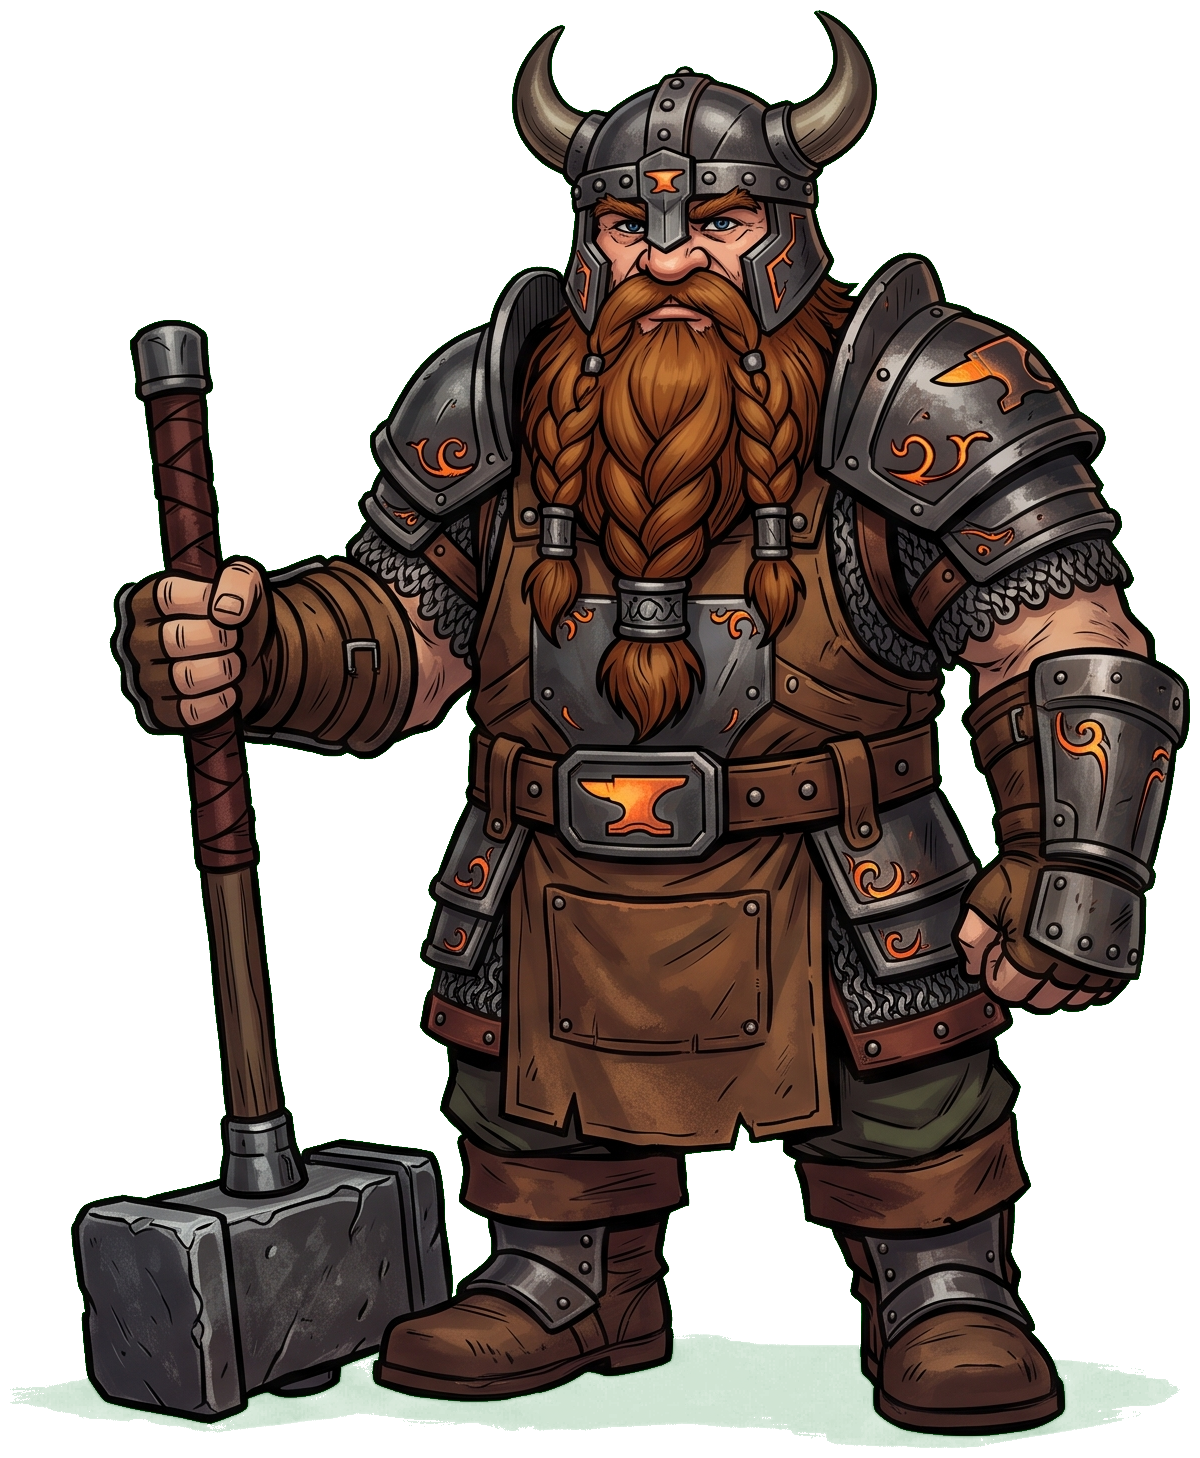
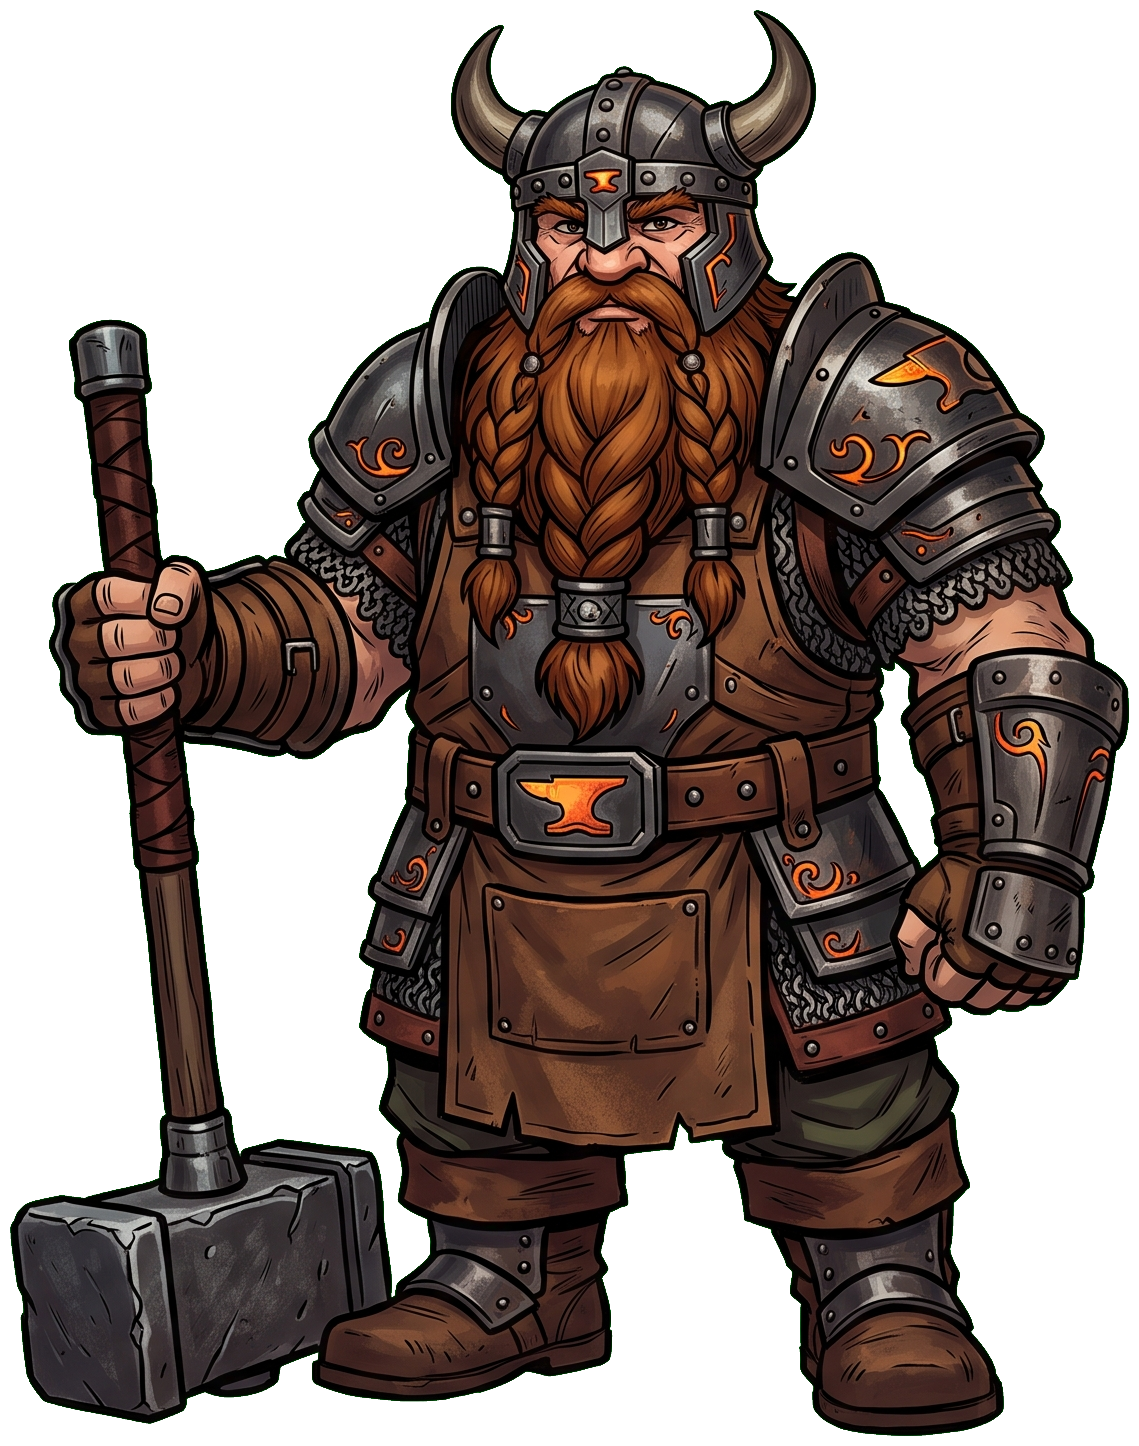
fix: Replace Thorin standalone hero artwork with shadowless clean transparent image

diff --git a/index.html b/index.html
@@ -797,11 +797,11 @@
         </div>
     </div>
 
-    <script src="scenarios.js?v=10.94"></script>
-    <script src="heroes.js?v=10.94"></script>
-    <script src="flashcards.js?v=10.94"></script>
-    <script src="grammar.js?v=10.94"></script>
-    <script src="ai_service.js?v=10.94"></script>
-    <script src="app.js?v=10.94"></script>
+    <script src="scenarios.js?v=10.95"></script>
+    <script src="heroes.js?v=10.95"></script>
+    <script src="flashcards.js?v=10.95"></script>
+    <script src="grammar.js?v=10.95"></script>
+    <script src="ai_service.js?v=10.95"></script>
+    <script src="app.js?v=10.95"></script>
 </body>
 </html>

diff --git a/scratch/process_thorin.py b/scratch/process_thorin.py
@@ -1,8 +1,7 @@
 import os
 from PIL import Image
 
-full_body_path = r'C:\Users\Анастасия\Desktop\English RPG\Gemini_Generated_Image_b70ajlb70ajlb70a.png'
-avatar_path = r'C:\Users\Анастасия\Desktop\English RPG\Gemini_Generated_Image_b70ajlb70ajlb70a - Copy.png'
+full_body_path = r'C:\Users\Анастасия\Desktop\English RPG\Gemini_Generated_Image_enl8j3enl8j3enl8.png'
 
 dest_dir = r'c:\dev\english_app'
 images_dir = r'c:\dev\english_app\images'
@@ -28,7 +27,7 @@ def remove_green_background(img_path):
     img.putdata(new_data)
     return img
 
-print("Processing full body Thorin image...")
+print("Processing clean full body Thorin image (no ground shadow)...")
 full_img = remove_green_background(full_body_path)
 
 # Crop bounding box of character
@@ -44,29 +43,15 @@ if bbox:
 else:
     cropped_full = full_img
 
-print("Processing avatar Thorin image...")
-avatar_img = remove_green_background(avatar_path)
-avatar_bbox = avatar_img.getbbox()
-if avatar_bbox:
-    avatar_cropped = avatar_img.crop(avatar_bbox)
-else:
-    avatar_cropped = avatar_img
-
 # Save outputs to workspace root and images/ directory
 full_out_root = os.path.join(dest_dir, "thorin_hero_standalone.png")
-avatar_out_root = os.path.join(dest_dir, "thorin_face.png")
 full_out_img = os.path.join(images_dir, "thorin_hero_standalone.png")
-avatar_out_img = os.path.join(images_dir, "thorin_face.png")
 
 cropped_full.save(full_out_root, "PNG")
 cropped_full.save(full_out_img, "PNG")
-avatar_cropped.save(avatar_out_root, "PNG")
-avatar_cropped.save(avatar_out_img, "PNG")
 
 # Save outputs to artifacts directory for preview
 cropped_full.save(os.path.join(artifacts_dir, "thorin_hero_standalone.png"), "PNG")
-avatar_cropped.save(os.path.join(artifacts_dir, "thorin_face.png"), "PNG")
 
-print("Thorin images processed successfully!")
+print("Clean Thorin standalone image processed successfully!")
 print(f"Full body: {full_out_img}")
-print(f"Avatar: {avatar_out_img}")
